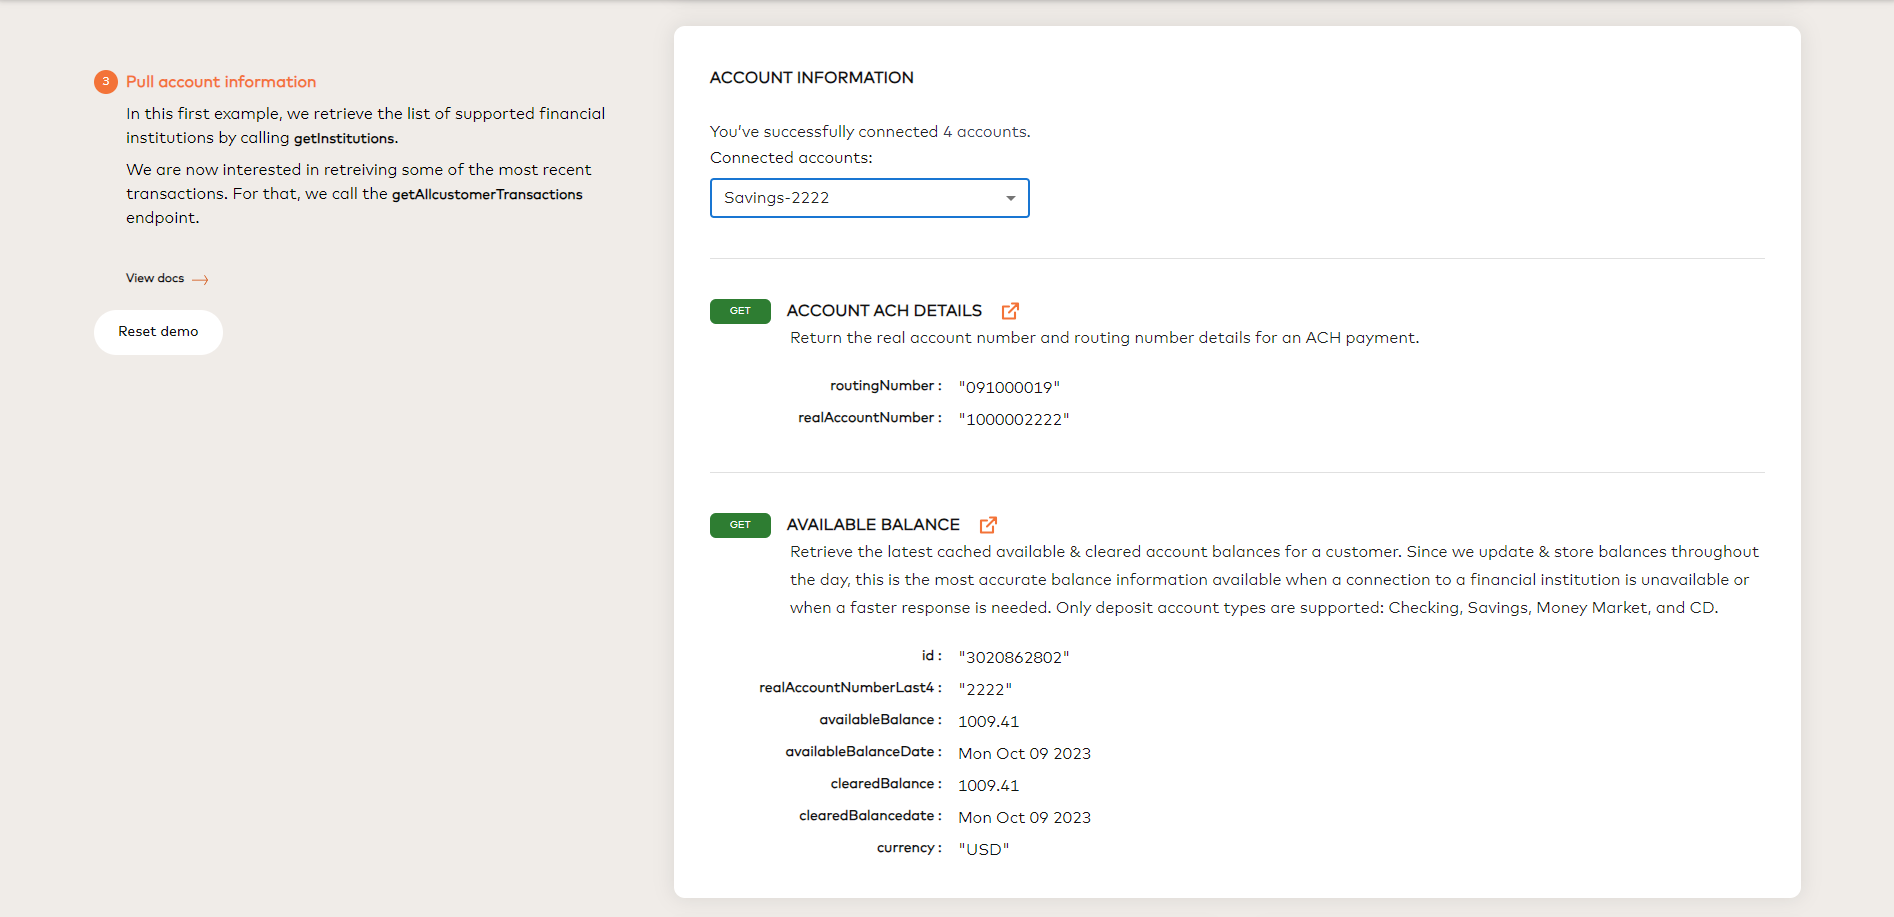
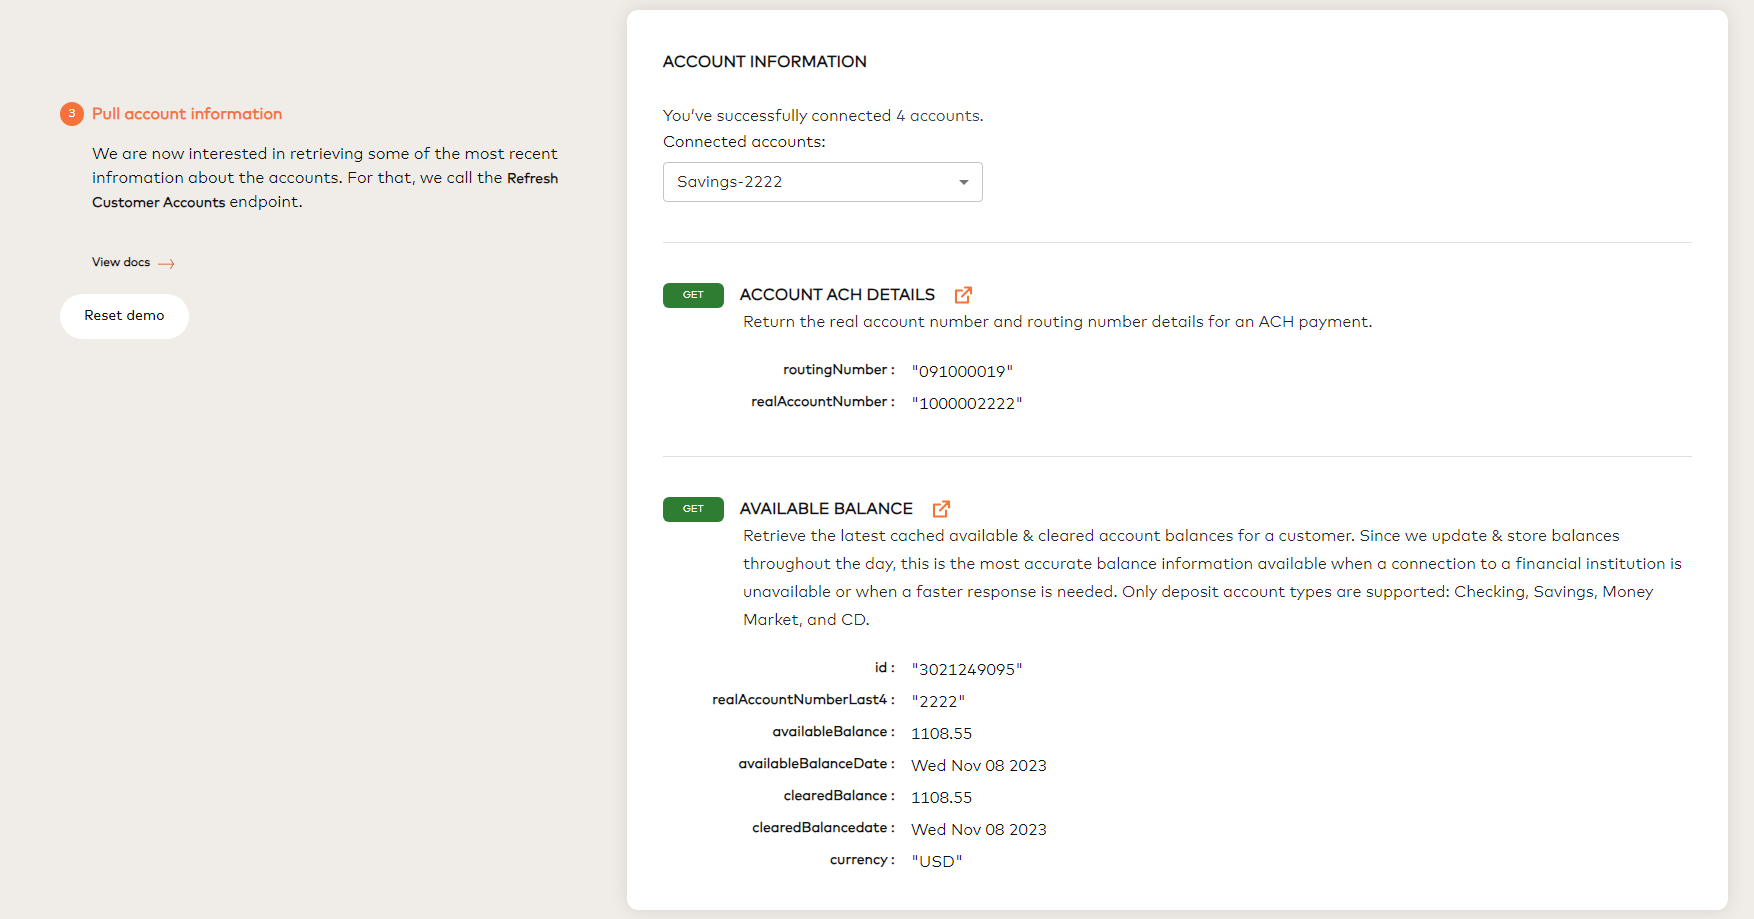
- Updates related to screenshots and help links
- Updated readme screen shots
- Updated help links in the applications

diff --git a/src/config/config.tsx b/src/config/config.tsx
@@ -9,9 +9,7 @@ export const URL = {
     activateCustomerUrl: '/aggregation/v2/customers/testing',
     genConnectUrl: '/connect/v2/generate',
     accountInfoUrl: '/aggregation/v1/customers/<customerId>/accounts',
-    achUrl: '/aggregation/v1/customers/<customerId>/accounts/<accountId>/details',
-    mcDevPortal:
-        'https://developer.mastercard.com/open-banking-us/documentation/quick-start-guide/#2-welcome-your-first-customer',
+    achUrl: '/aggregation/v1/customers/<customerId>/accounts/<accountId>/details'
 };
 
 /* DEPOSIT ACCOUNT TYPES FOR ACH  */
@@ -36,15 +34,10 @@ export const STEPS = [
         description: (
             <div>
                 Here, we start with creating a "testing" customer record. We will use this customer later with FinBank test profiles.
-                <br />
-                <br />
-                You can omit the <b className='text-[14px]'>
-                    applicationId
-                </b>{' '}
-                from the request when generating test customers.
             </div>
         ),
         panel: 'panel0',
+        documentationLink : 'https://developer.mastercard.com/open-banking-us/documentation/quick-start-guide/#2-welcome-your-first-customer'
     },
     {
         label: 'Attach a bank account to customer',
@@ -53,29 +46,26 @@ export const STEPS = [
                 Now that you have a Customer ID, the next step is to generate a
                 Connect URL you would typically share with your end users. From
                 that, they can start a Connect session & grant Mastercard Open
-                Banking access to their accounts and financial data. You can
-                omit the <b className='text-[14px]'>applicationId</b> from the
-                request <br /> when generating test customers.
+                Banking access to their accounts and financial data.
             </div>
         ),
         panel: 'panel1',
+        documentationLink : 'https://developer.mastercard.com/open-banking-us/documentation/connect/'
     },
     {
         label: 'Pull account information',
         description: (
             <div>
-                In this first example, we retrieve the list of supported
-                financial institutions by calling{' '}
-                <b className='text-[14px]'>getInstitutions</b>.
                 <div className='mt-2'>
                     We are now interested in retrieving some of the most recent
-                    transactions. For that, we call the{' '}
-                    <b className='text-[14px]'>getAllCustomerTransactions</b>{' '}
+                    infromation about the accounts. For that, we call the{' '}
+                    <b className='text-[14px]'>Refresh Customer Accounts </b>{' '}
                     endpoint.
                 </div>
             </div>
         ),
         panel: 'panel2',
+        documentationLink : 'https://developer.mastercard.com/open-banking-us/documentation/quick-start-guide/#step-5---refresh-customer-accounts'
     },
 ];
 

diff --git a/src/components/ConnectForm/ConnectForm.tsx b/src/components/ConnectForm/ConnectForm.tsx
@@ -51,7 +51,6 @@ const {
     activateCustomerUrl,
     genConnectUrl,
     accountInfoUrl,
-    mcDevPortal,
     achUrl,
 } = URL;
 
@@ -394,7 +393,7 @@ export default function ConnectForm() {
                                             {step.description}
                                         </Step>
                                         <a
-                                            href={mcDevPortal}
+                                            href={step.documentationLink}
                                             target='_blank'
                                             rel='noreferrer'
                                         >
